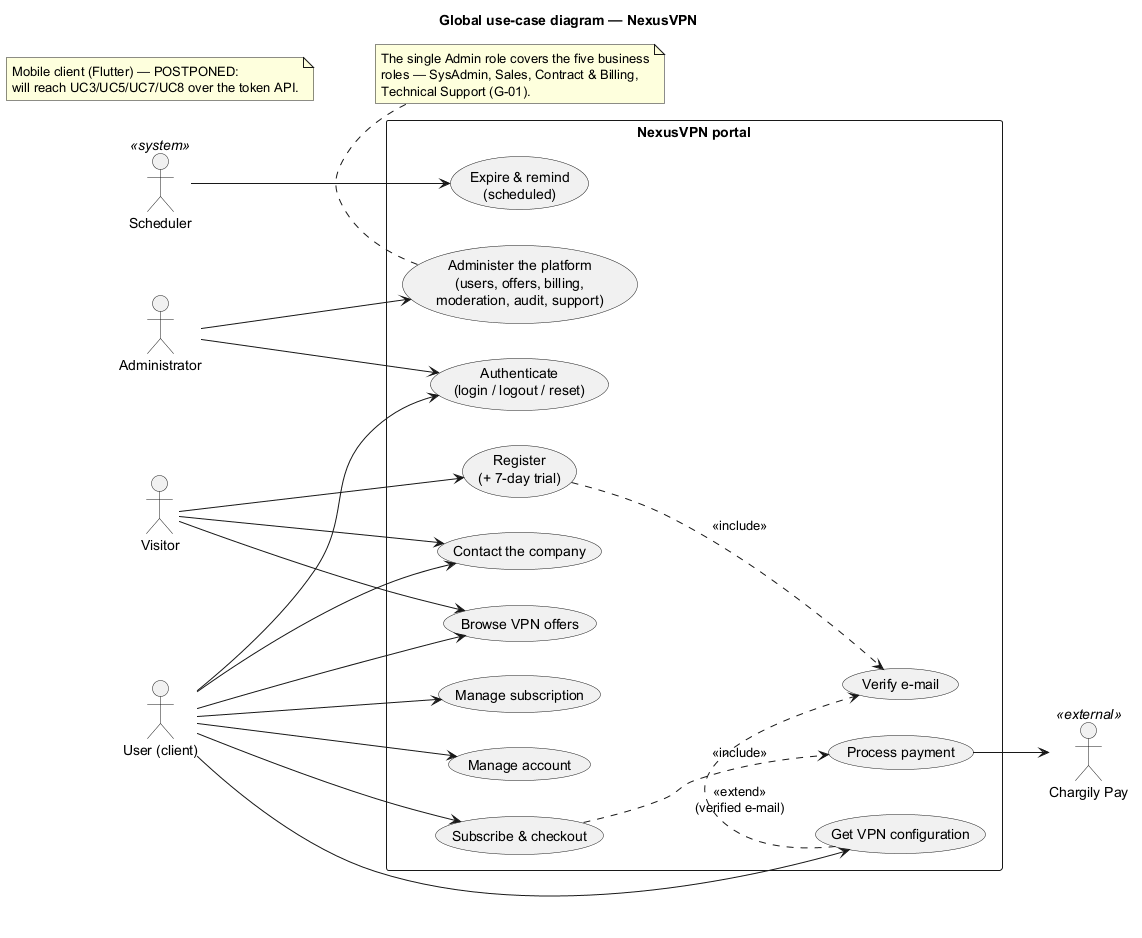
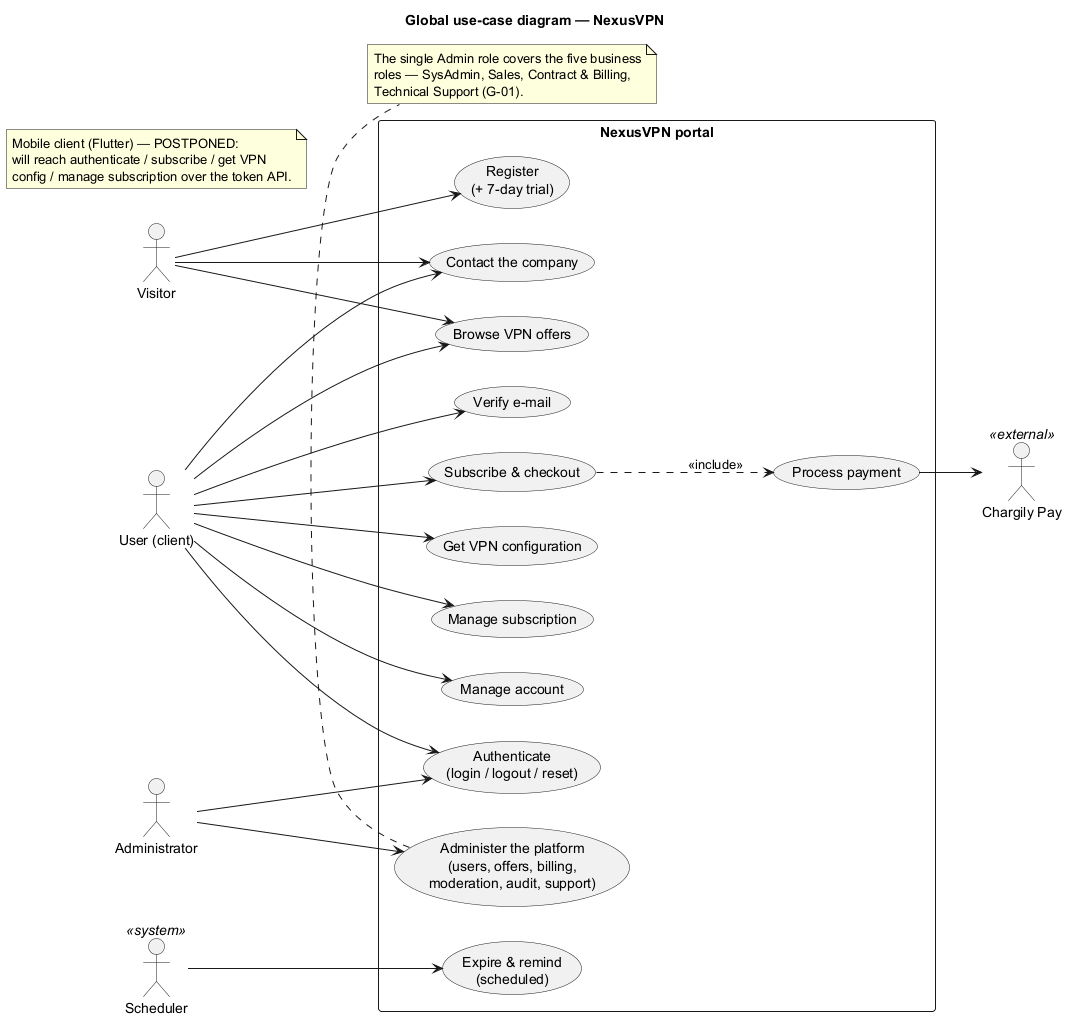
docs(memoire): fix Chapter III (UML include/extend, admin use-case tables, lists)
Review fixes raised by the student:

1. UML include/extend semantics corrected in the three use-case diagrams.
   Removed the wrong "<<extend>> (verified e-mail)" (a verified e-mail is a
   pre-condition, not an extension) and the wrong "Register <<include>> Verify
   e-mail" (registration does not perform verification). The only relationship
   kept is "Subscribe & checkout <<include>> Process payment". "Verify e-mail"
   is now associated with the user. Re-rendered with Graphviz; the III.5.1 text
   and the global diagram note were updated accordingly.

2. Added 11 use-case tables (same 6-row format), verified against the code: the
   8 admin/team-owner ones requested (manage users, offers, payments & refunds,
   subscriptions & team provisioning, moderate testimonials, handle contact
   requests, audit log, manage team members) plus 3 client ones that had the
   same gap on the client diagram (verify e-mail, manage account, submit a
   testimonial). Use-case tables are now III.4-III.24; data dictionary -> III.25,
   cardinalities -> III.26. lists.md updated.

3. Class diagram verified name-by-name against the models (grantsAccess,
   markSucceeded/markFailed/recordRefund, closeAccount, issueFor/revokeFor,
   isSelfServe, seatLimit, record, ...). All names and attributes are correct;
   no change was needed.

4. lists.md abbreviations reduced to those actually used in the chapters
   (removed CRUD, ERD, OTP, SMTP; TCP/UDP -> UDP).

No application code changed.

diff --git a/docs/memoire/chapters/ch3.md b/docs/memoire/chapters/ch3.md
@@ -79,7 +79,7 @@ Access control is **enforced on the server** by the authenticated session togeth
 
 ## III.4 Use Case Specifications
 
-A **use case** describes a service the system renders to an **actor** (a role interacting with the system) to achieve a goal. Actors are linked to use cases by *associations*; a use case may *«include»* another (a mandatory sub-behaviour) or be *«extended»* by another (an optional/conditional behaviour). Table III.3 lists the actors of the portal; the ten use cases that follow are described in the reference format (Title, Actor, Description, Pre-condition, Nominal scenario, Alternative scenarios). Their titles are adapted to the real system per the gap-handling rules of the analysis (decisions §5).
+A **use case** describes a service the system renders to an **actor** (a role interacting with the system) to achieve a goal. Actors are linked to use cases by *associations*; a use case may *«include»* another (a mandatory sub-behaviour) or be *«extended»* by another (an optional/conditional behaviour). Table III.3 lists the actors of the portal. The use cases that follow are described in the reference format (Title, Actor, Description, Pre-condition, Nominal scenario, Alternative scenarios): the ten core client use cases first, then the additional client, administration and team-management use cases that complete the diagrams of III.5. Their titles are adapted to the real system per the gap-handling rules of the analysis (decisions §5).
 
 | Actor | Type | Description |
 |---|---|---|
@@ -212,6 +212,142 @@ A **use case** describes a service the system renders to an **actor** (a role in
 
 **Table III.13 — UC-10: Contact the company.** *Source: author, verified from the code.*
 
+The three use cases below complete the client side (they appear in Figure III.3).
+
+### III.4.11 UC-11 — Verify e-mail
+| | |
+|---|---|
+| **Title** | Verify e-mail |
+| **Actor** | User |
+| **Description** | Confirm the e-mail address using the link sent at registration. |
+| **Pre-condition** | A registered account whose e-mail is not yet verified. |
+| **Nominal scenario** | The user opens the signed verification link (`GET /api/email/verify/{id}/{hash}`); the server checks the signature and marks the e-mail verified, which unlocks checkout and the VPN configuration. |
+| **Alternative scenarios** | Invalid or expired signature → 403; the link can be re-sent (`POST /api/email/verification-notification`). |
+
+**Table III.14 — UC-11: Verify e-mail.** *Source: author, verified from the code.*
+
+### III.4.12 UC-12 — Manage account
+| | |
+|---|---|
+| **Title** | Manage account |
+| **Actor** | User |
+| **Description** | Change the e-mail address or password, or permanently delete the account. |
+| **Pre-condition** | Signed in; changes require the current password. |
+| **Nominal scenario** | In account settings, `PUT /api/account/email` or `PUT /api/account/password` (each requires the current password); `DELETE /api/account` (confirmed with the password and by typing the e-mail) anonymises and soft-deletes the account, keeping anonymised billing history. |
+| **Alternative scenarios** | Wrong current password → 422; an administrator cannot self-delete → 409 (`admin_account`); a team owner cannot self-delete → 409 (`team_owner`). |
+
+**Table III.15 — UC-12: Manage account.** *Source: author, verified from the code.*
+
+### III.4.13 UC-13 — Submit a testimonial
+| | |
+|---|---|
+| **Title** | Submit a testimonial |
+| **Actor** | User |
+| **Description** | Write a testimonial that is shown publicly once approved. |
+| **Pre-condition** | Signed in. |
+| **Nominal scenario** | `POST /api/testimonials` stores the text as `pending`; it appears on the site after an administrator approves it (UC-18). |
+| **Alternative scenarios** | One pending testimonial per user at a time → 429; an hourly rate-limit applies. |
+
+**Table III.16 — UC-13: Submit a testimonial.** *Source: author, verified from the code.*
+
+The use cases below are performed by the **Administrator** in the back-office console (Figure III.4); the last one is performed by a **team owner**.
+
+### III.4.14 UC-14 — Manage user accounts
+| | |
+|---|---|
+| **Title** | Manage user accounts (incl. delete user) |
+| **Actor** | Administrator |
+| **Description** | Search accounts, change a user's role, and delete an account. |
+| **Pre-condition** | An authenticated administrator. |
+| **Nominal scenario** | `GET /api/admin/users` (search by name/e-mail, filter by role and subscription); `PATCH /api/admin/users/{user}` (name, e-mail, role); `DELETE /api/admin/users/{user}` → the shared `closeAccount` logic anonymises and soft-deletes the user, revokes VPN access and records the action. |
+| **Alternative scenarios** | Cannot delete the last administrator, oneself, or a team owner → 422; cannot remove one's own admin role → 422. |
+
+**Table III.17 — UC-14: Manage user accounts.** *Source: author, verified from the code.*
+
+### III.4.15 UC-15 — Manage offers
+| | |
+|---|---|
+| **Title** | Manage offers |
+| **Actor** | Administrator (Sales) |
+| **Description** | Create, edit, activate/deactivate and delete the plans shown on the pricing page. |
+| **Pre-condition** | An authenticated administrator. |
+| **Nominal scenario** | `GET /api/admin/plans`; `POST /api/admin/plans` (create); `PATCH /api/admin/plans/{plan}` (edit, `is_active`). The pricing cache is flushed so the public page always matches, and each change is audited. |
+| **Alternative scenarios** | A plan referenced by subscriptions cannot be deleted → 409 (deactivate it instead). |
+
+**Table III.18 — UC-15: Manage offers.** *Source: author, verified from the code.*
+
+### III.4.16 UC-16 — Manage payments and refunds
+| | |
+|---|---|
+| **Title** | Manage payments and refunds |
+| **Actor** | Administrator (Billing) |
+| **Description** | Consult payments and issue refunds. |
+| **Pre-condition** | An authenticated administrator. |
+| **Nominal scenario** | `GET /api/admin/payments` (filter by status, search by e-mail); `POST /api/admin/payments/{payment}/refund` (reason, optionally end the subscription) → `recordRefund` marks the payment refunded and audits it. |
+| **Alternative scenarios** | A payment that cannot be refunded → 409. |
+
+**Table III.19 — UC-16: Manage payments and refunds.** *Source: author, verified from the code.*
+
+### III.4.17 UC-17 — Manage subscriptions and provision a team subscription
+| | |
+|---|---|
+| **Title** | Manage subscriptions and provision a team subscription |
+| **Actor** | Administrator |
+| **Description** | Consult subscriptions, cancel one, and provision a team subscription for a customer. |
+| **Pre-condition** | An authenticated administrator. |
+| **Nominal scenario** | `GET /api/admin/subscriptions`; `POST /api/admin/subscriptions/team` (owner e-mail, plan, seats, months) creates the subscription and the team and attaches the owner; `POST /api/admin/subscriptions/{subscription}/cancel` ends a subscription immediately. |
+| **Alternative scenarios** | The owner must have an existing account and no current subscription → 409; cancelling a subscription that is not active → 409. |
+
+**Table III.20 — UC-17: Manage subscriptions and provision a team subscription.** *Source: author, verified from the code.*
+
+### III.4.18 UC-18 — Moderate testimonials
+| | |
+|---|---|
+| **Title** | Moderate testimonials |
+| **Actor** | Administrator (Support) |
+| **Description** | Review submitted testimonials and approve, reject or delete them. |
+| **Pre-condition** | An authenticated administrator. |
+| **Nominal scenario** | `GET /api/admin/testimonials` (filter by status); `PATCH /api/admin/testimonials/{id}` (approved / rejected) records the moderator and date; `DELETE /api/admin/testimonials/{id}` removes one. Each action is audited. |
+| **Alternative scenarios** | — |
+
+**Table III.21 — UC-18: Moderate testimonials.** *Source: author, verified from the code.*
+
+### III.4.19 UC-19 — Handle contact requests
+| | |
+|---|---|
+| **Title** | Handle contact requests |
+| **Actor** | Administrator (Support / Sales) |
+| **Description** | Review sales inquiries and mark them handled. |
+| **Pre-condition** | An authenticated administrator. |
+| **Nominal scenario** | `GET /api/admin/contact-requests` (filter new / handled); `PATCH /api/admin/contact-requests/{id}` (handled) records the handler and date; a team subscription can then be provisioned (UC-17). |
+| **Alternative scenarios** | — |
+
+**Table III.22 — UC-19: Handle contact requests.** *Source: author, verified from the code.*
+
+### III.4.20 UC-20 — Consult the audit log
+| | |
+|---|---|
+| **Title** | Consult the audit log |
+| **Actor** | Administrator (System Administrator) |
+| **Description** | Review the recorded security and billing events. |
+| **Pre-condition** | An authenticated administrator. |
+| **Nominal scenario** | `GET /api/admin/audit-logs` (filter by event) returns a paginated list — date, event, actor, subject and details. |
+| **Alternative scenarios** | — |
+
+**Table III.23 — UC-20: Consult the audit log.** *Source: author, verified from the code.*
+
+### III.4.21 UC-21 — Manage team members
+| | |
+|---|---|
+| **Title** | Manage team members |
+| **Actor** | Team owner |
+| **Description** | Add or remove members of the team within the seat limit, and rename the team. |
+| **Pre-condition** | Signed in as the owner of a team. |
+| **Nominal scenario** | `GET /api/team`; `POST /api/team/members` (add by e-mail, within the seats) gives the member their own VPN access; `DELETE /api/team/members/{member}` revokes it; `PATCH /api/team` renames the team. |
+| **Alternative scenarios** | All seats in use → 409; the member needs a NexusVPN account; the owner cannot be removed → 422. |
+
+**Table III.24 — UC-21: Manage team members.** *Source: author, verified from the code.*
+
 > ⏸ **Mobile use cases — placeholder.** When the Flutter client is resumed, the same client use cases (UC-01, UC-03, UC-04, UC-07, UC-09) are reached over the token API `/api/mobile/*`; a dedicated mobile use-case diagram will be added then.
 
 ## III.5 Use Case Diagrams
@@ -219,7 +355,7 @@ A **use case** describes a service the system renders to an **actor** (a role in
 The use cases above are organised into three diagrams: a **global** diagram showing all actors and the main use cases, a **client** diagram for the customer side, and an **administration** diagram for the back office. Following gap **G-05**, the separate "support portal" is merged into the administration diagram (contact requests and moderation), so the "support" view (III.5.3 in the supervisor's structure) is covered there rather than as a separate portal.
 
 ### III.5.1 Global Use Case Diagram
-Figure III.2 places the actors — Visitor, User (client), Administrator, the Scheduler and the external Chargily Pay — around the system boundary and shows the «include» relationships (registration and checkout include e-mail verification / payment) and the «extend» relationship (verified e-mail extends checkout).
+Figure III.2 places the actors — Visitor, User (client), Administrator, the Scheduler and the external Chargily Pay — around the system boundary. It shows one «include» relationship, *Subscribe & checkout* «include» *Process payment*, because completing a purchase always involves the payment step (the external Chargily Pay actor participates in that use case). A verified e-mail is a **pre-condition** of checkout and of getting the VPN configuration — stated in the corresponding use-case tables — not an «extend» relationship.
 
 ![Figure III.2 — Global use-case diagram](../figures/use-case-global.png)
 
@@ -326,7 +462,7 @@ Mapping the class model to a relational schema gives the following relations (pr
 
 ## III.9 Data Dictionary
 
-Table III.14 is the data dictionary of the database. Types use the convention: **A** = alphabetic, **N** = numeric, **AN** = alphanumeric, **D** = date/datetime, **B** = boolean, **J** = JSON, **T** = text. (The `created_at` / `updated_at` timestamps present on most tables are omitted for brevity.)
+Table III.25 is the data dictionary of the database. Types use the convention: **A** = alphabetic, **N** = numeric, **AN** = alphanumeric, **D** = date/datetime, **B** = boolean, **J** = JSON, **T** = text. (The `created_at` / `updated_at` timestamps present on most tables are omitted for brevity.)
 
 | Entity | Field | Meaning | Type | Constraint |
 |---|---|---|---|---|
@@ -406,7 +542,7 @@ Table III.14 is the data dictionary of the database. Types use the convention: *
 | AUDIT_LOGS | metadata | Event details | J | nullable |
 | AUDIT_LOGS | ip_address | Source IP | AN | nullable |
 
-**Table III.14 — Data dictionary of the database.** *Source: author, from the real schema.* (The postponed `PERSONAL_ACCESS_TOKENS` table is omitted; see III.8.)
+**Table III.25 — Data dictionary of the database.** *Source: author, from the real schema.* (The postponed `PERSONAL_ACCESS_TOKENS` table is omitted; see III.8.)
 
 ## III.10 Business Logic and Rules
 
@@ -425,7 +561,7 @@ The main business rules enforced by the system — verified in the models and co
 
 ## III.11 Relationships and Cardinalities
 
-Table III.15 lists the relationships between entities, their cardinalities and their on-delete behaviour (also visible in the entity-relationship diagram, Figure III.14). The on-delete rules deliberately protect billing history: subscriptions, payments and VPN credentials use RESTRICT on the user, so a user who has them cannot be hard-deleted (account closure anonymises and soft-deletes instead, rule 8).
+Table III.26 lists the relationships between entities, their cardinalities and their on-delete behaviour (also visible in the entity-relationship diagram, Figure III.14). The on-delete rules deliberately protect billing history: subscriptions, payments and VPN credentials use RESTRICT on the user, so a user who has them cannot be hard-deleted (account closure anonymises and soft-deletes instead, rule 8).
 
 | Relationship | Cardinality | On delete |
 |---|---|---|
@@ -442,7 +578,7 @@ Table III.15 lists the relationships between entities, their cardinalities and t
 | User — ContactRequest (sender / handler) | 0..1 : 0..* | SET NULL |
 | User — AuditLog (actor) | 0..1 : 0..* | SET NULL |
 
-**Table III.15 — Relationships and cardinalities.** *Source: author, from the schema's foreign keys.*
+**Table III.26 — Relationships and cardinalities.** *Source: author, from the schema's foreign keys.*
 
 ## III.12 Project Planning (Gantt Chart)
 
@@ -454,7 +590,7 @@ Table III.15 lists the relationships between entities, their cardinalities and t
 
 ## Conclusion
 
-This chapter analysed and designed the VPN sales portal with UML. It gave an overview of the system and its two-tier architecture, identified the stakeholders and mapped the five business roles onto the implemented `user` / `admin` roles with a permission matrix. It specified the ten use cases in textual form and in use-case diagrams, detailed the main scenarios with eight sequence diagrams, and modelled the structure with a class diagram. It then described the data design — the relational model, a full data dictionary, the business rules and the relationships and cardinalities — and set out the project phases, leaving the Gantt chart as a marked placeholder pending the real dates. Every model was verified against the source code. The next chapter presents the implementation and deployment of this design.
+This chapter analysed and designed the VPN sales portal with UML. It gave an overview of the system and its two-tier architecture, identified the stakeholders and mapped the five business roles onto the implemented `user` / `admin` roles with a permission matrix. It specified the use cases — the ten core client use cases together with the further client, administration and team-management use cases — in textual form and in use-case diagrams, detailed the main scenarios with eight sequence diagrams, and modelled the structure with a class diagram. It then described the data design — the relational model, a full data dictionary, the business rules and the relationships and cardinalities — and set out the project phases, leaving the Gantt chart as a marked placeholder pending the real dates. Every model was verified against the source code. The next chapter presents the implementation and deployment of this design.
 
 ---
 

diff --git a/docs/pfe/17-changelog.md b/docs/pfe/17-changelog.md
@@ -41,3 +41,4 @@
 | 2026-10-11 | Outils / DevOps | **Règle permanente « meilleur outil pour chaque tâche »** ajoutée à `CLAUDE.md` (racine) + mémoire. **Graphviz 16.1.0 installé** (winget `Graphviz.Graphviz`, source officielle gitlab, hash vérifié) pour un rendu PlantUML via `dot` réel. Test sur les 3 diagrammes de cas d'usage : Smetana ≈ dot (sortie équivalente) → **non re-rendus** (pas d'amélioration nette). Graphviz devient le moteur PlantUML par défaut pour la suite. | Disposer des meilleurs outils (diagrammes, et docx/pandoc pour l'assemblage final) | Règle enregistrée ; Graphviz prêt ; aucun diagramme re-rendu inutilement | commit `chore(tools): add tool-choice rule + install Graphviz` |
 | 2026-10-11 | Mémoire (rédaction) | **Chapitre II finalisé/approuvé** : Table II.3 **vérifiée depuis les pages officielles** NordVPN + Proton VPN (ouvertes directement : moyens de paiement, devises, protocoles) — ne garde que des faits confirmés, 4 notes de bas de page spécifiques, caveat « à valider » retiré ; II.6 resserré aux faits confirmés (ni EDAHABIA ni CIB chez NordVPN/Proton ; devises étrangères ; Algérie absente des devises locales Proton). `ch2-sources.md` : section concurrents + correction loi 18-05 art. 6. Cohérence des notes vérifiée (aucune orpheline). **Chapitre II approuvé.** | Finir le Ch II sans rien laisser à valider par l'étudiant | Ch II approuvé ; Table II.3 entièrement sourcée | commit `docs(memoire): verify Table II.3 from competitor pages (Ch II approved)` |
 | 2026-10-11 | Mémoire (rédaction) | **Chapitre III rédigé** (`docs/memoire/chapters/ch3.md`, anglais) : structure complète III.1–III.12 selon la structure de l'encadrant + **introduction à UML** (cité OMG). Vue d'ensemble + **figure d'architecture** ; 5 parties prenantes (G-01) ; **matrice rôles/permissions** ; **table des acteurs** ; **10 tables de cas d'usage** (format référence, 6 lignes) ; **3 diagrammes de cas d'usage** (global/client/admin, support fusionné G-05) ; **8 diagrammes de séquence** (ajout des 3 manquants : annulation, contact, consultation des offres — rendus + vérifiés) ; diagramme de classes ; modèle relationnel + **ERD** ; **dictionnaire de données** ; règles de gestion ; cardinalités ; Gantt = emplacement marqué (dates réelles en attente, Q-18). **15 figures + 15 tableaux** légendés ; listes courantes figures/tableaux/abréviations dans `docs/memoire/lists.md`. **Chaque fait revérifié contre le code** (routes, contrôleurs, modèles, schéma, limites de débit — correction : lockout login = 5 tentatives/60 s par compte en plus du throttle 10/min par IP ; pool VPN 10.66.0.0/16). Mobile = placeholders (D-16). **Aucun code applicatif modifié.** | Rédiger le chapitre d'analyse et de conception | Ch III prêt pour revue (6.14) | commit `docs(memoire): draft Chapter III (analysis & design)` |
+| 2026-10-11 | Mémoire (rédaction) | **Corrections du Chapitre III** (relevées par l'étudiant) : (1) sémantique UML «include»/«extend» corrigée dans les 3 diagrammes de cas d'usage — suppression du faux «extend» (e-mail vérifié = **pré-condition**, pas extension) et du faux «include» Register→Verify ; ne reste que *Subscribe & checkout* «include» *Process payment* ; « Vérifier l'e-mail » rattaché à l'acteur ; **re-rendu avec Graphviz** + texte III.5.1 corrigé. (2) **11 tables de cas d'usage ajoutées** (format 6 lignes) : 8 admin + propriétaire d'équipe demandées (gérer comptes/offres/paiements-remboursements/abonnements-équipe/modération/demandes-contact/journal-audit/membres-équipe) **+ 3 côté client** pour cohérence (vérifier e-mail, gérer le compte, soumettre un témoignage) — toutes vérifiées contre le code ; tableaux renumérotés (UC = III.4–III.24, dictionnaire III.25, cardinalités III.26) ; `lists.md` mis à jour. (3) Diagramme de classes **vérifié nom par nom** contre les modèles (grantsAccess, markSucceeded/markFailed/recordRefund, closeAccount, issueFor/revokeFor, isSelfServe, seatLimit, record…) — **tout correct, aucune modification**. (4) `lists.md` : abréviations réduites à celles réellement employées (retrait de CRUD, ERD, OTP, SMTP ; TCP/UDP → UDP). **Aucun code applicatif modifié.** | Corriger le Ch III avant approbation | Ch III corrigé ; prêt pour relecture de l'étudiant | commit `docs(memoire): fix Chapter III (UML include/extend, admin use-case tables, lists)` |

diff --git a/docs/memoire/lists.md b/docs/memoire/lists.md
@@ -47,8 +47,19 @@
 | Table III.11 | UC-08: View payment receipts | III |
 | Table III.12 | UC-09: Manage subscriptions | III |
 | Table III.13 | UC-10: Contact the company | III |
-| Table III.14 | Data dictionary of the database | III |
-| Table III.15 | Relationships and cardinalities | III |
+| Table III.14 | UC-11: Verify e-mail | III |
+| Table III.15 | UC-12: Manage account | III |
+| Table III.16 | UC-13: Submit a testimonial | III |
+| Table III.17 | UC-14: Manage user accounts | III |
+| Table III.18 | UC-15: Manage offers | III |
+| Table III.19 | UC-16: Manage payments and refunds | III |
+| Table III.20 | UC-17: Manage subscriptions and provision a team subscription | III |
+| Table III.21 | UC-18: Moderate testimonials | III |
+| Table III.22 | UC-19: Handle contact requests | III |
+| Table III.23 | UC-20: Consult the audit log | III |
+| Table III.24 | UC-21: Manage team members | III |
+| Table III.25 | Data dictionary of the database | III |
+| Table III.26 | Relationships and cardinalities | III |
 
 ## List of Abbreviations
 
@@ -60,11 +71,9 @@
 | B2B / B2C / C2B / C2C | Business/Consumer-to-Business / Business-to-Consumer / Consumer-to-Business / Consumer-to-Consumer | II |
 | BLAKE2s | Cryptographic hash function (used by WireGuard) | II |
 | CIB | Carte Interbancaire (Algerian interbank card) | II |
-| CRUD | Create, Read, Update, Delete | III |
 | CSRF | Cross-Site Request Forgery | II/III |
 | DZD | Algerian Dinar (ISO currency code) | II |
 | EDAHABIA | Algérie Poste electronic payment card | II |
-| ERD | Entity-Relationship Diagram | III |
 | FK | Foreign Key | III |
 | GDPR | General Data Protection Regulation (EU 2016/679) | II |
 | HMAC | Hash-based Message Authentication Code | II/III |
@@ -78,16 +87,14 @@
 | NIST | National Institute of Standards and Technology | II |
 | OECD | Organisation for Economic Co-operation and Development | II |
 | OMG | Object Management Group | III |
-| OTP | One-Time Password | III |
 | PK | Primary Key | III |
 | RBAC | Role-Based Access Control | II/III |
 | REST | Representational State Transfer | III |
 | RFC | Request for Comments | II |
-| SMTP | Simple Mail Transfer Protocol | III |
 | SSL | Secure Sockets Layer | II |
-| TCP / UDP | Transmission Control Protocol / User Datagram Protocol | II |
 | TLS | Transport Layer Security | II |
 | UC | Use Case | III |
+| UDP | User Datagram Protocol | II |
 | UI / UX | User Interface / User Experience | II |
 | UK | Unique Key | III |
 | UML | Unified Modeling Language | III |

diff --git a/docs/memoire/plan.md b/docs/memoire/plan.md
@@ -188,7 +188,7 @@ Output folders (created when needed):
 | ☑ | 6.11 | III.10 Business logic and rules | Claude | 3.7 | ch3 |
 | ☑ | 6.12 | III.11 Relationships and cardinalities | Claude | 3.7 | ch3 |
 | ☑ | 6.13 | III.12 Gantt (marked placeholder, real dates pending Q-18) + conclusion | Claude | 3.8 | ch3 |
-| ☐ | 6.14 | 🔴 Review Ch III → fixes. **Chapter III DRAFTED** (`chapters/ch3.md`); figures + running lists (`lists.md`) done. Pending: student review/approval | Student | 6.1–6.13 | ch3 approved |
+| ◐ | 6.14 | 🔴 Review Ch III → fixes. Chapter III drafted + **first review round applied** (UML include/extend corrected + diagrams re-rendered; **11 use-case tables added** for admin/team + client gaps, UC=III.4–III.24, dict III.25, card III.26; class diagram verified name-by-name — all correct; `lists.md` abbreviations pruned). Pending: student approval | Student | 6.1–6.13 | ch3 approved |
 
 ## Phase 7 — Chapter IV: implementation and deployment (Lane A) → `chapters/ch4.md`
 
